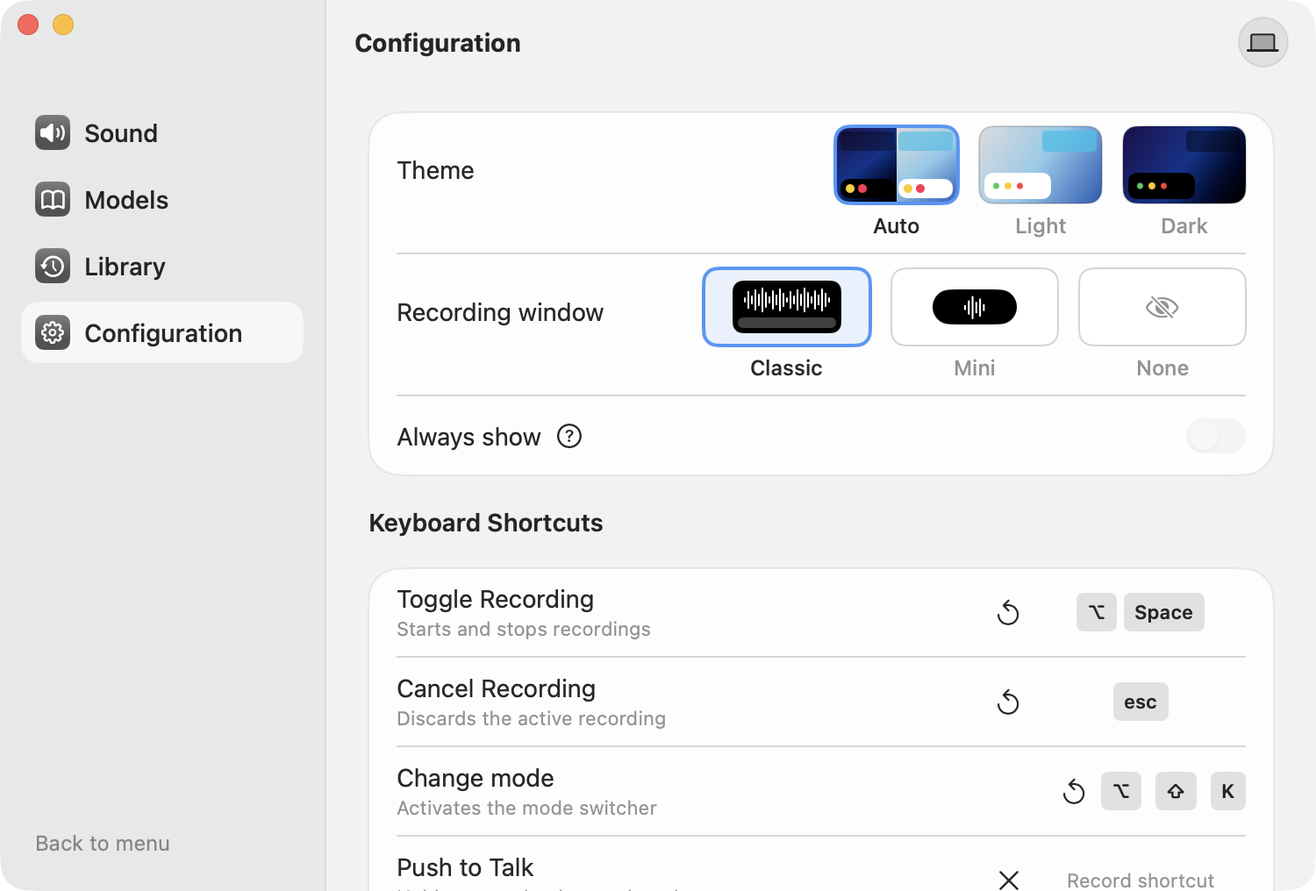
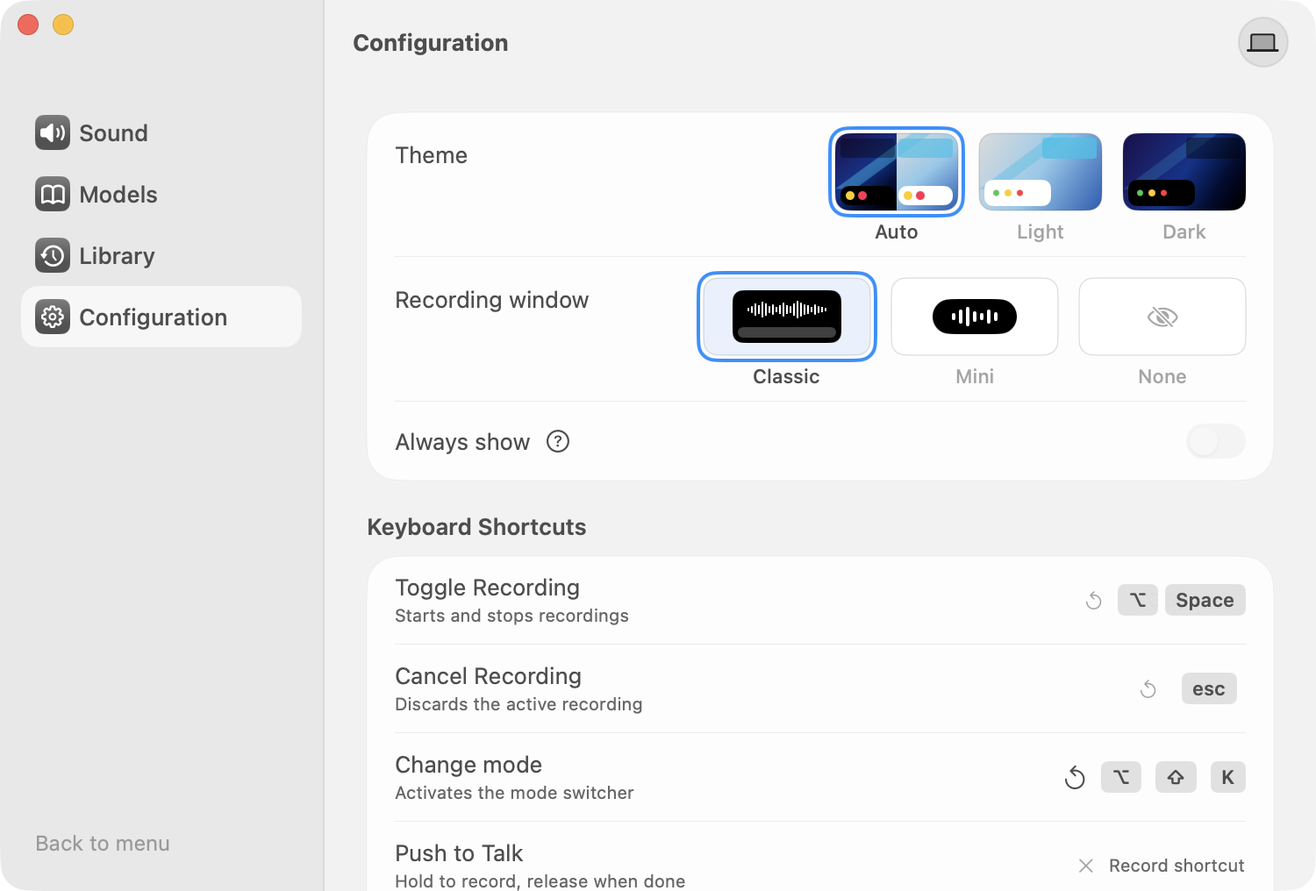
Refine Sound and Configuration settings

diff --git a/Sources/LightTTS/Views/Settings/SettingsView.swift b/Sources/LightTTS/Views/Settings/SettingsView.swift
@@ -92,22 +92,22 @@ private struct SoundPageView: View {
     @AppStorage("recordingSound") private var recordingSound = "Pause"
     @AppStorage("increaseMicVolume") private var increaseMic = false
     var body: some View {
-        ScrollView { VStack(alignment: .leading, spacing: 18) {
+        ScrollView { VStack(alignment: .leading, spacing: 0) {
             SettingsCard {
-                SettingsRow(title: "Sound effects") { HStack(spacing: 0) { ForEach(["Simple", "Classic", "Off"], id: \.self) { value in Button { sound = value } label: { Text(value).font(.system(size: 14, weight: sound == value ? .semibold : .regular)).frame(maxWidth: .infinity).frame(height: 26).foregroundStyle(sound == value ? (scheme == .dark ? Color.white : Color.black) : Color.secondary).background(sound == value ? (scheme == .dark ? Color(red: 91/255, green: 93/255, blue: 99/255) : Color.white) : Color.clear, in: RoundedRectangle(cornerRadius: 7)) }.buttonStyle(.plain) } }.padding(2).frame(width: 168).background(Color.primary.opacity(0.07), in: RoundedRectangle(cornerRadius: 9)).overlay(RoundedRectangle(cornerRadius: 9).stroke(Color.primary.opacity(0.1))) }
-                Divider()
+                SettingsRow(title: "Sound effects") { HStack(spacing: 0) { ForEach(["Simple", "Classic", "Off"], id: \.self) { value in Button { sound = value } label: { Text(value).font(.system(size: 12, weight: sound == value ? .semibold : .regular)).frame(width: value == "Classic" ? 62 : value == "Simple" ? 62 : 40, height: 24).foregroundStyle(sound == value ? (scheme == .dark ? Color.white : Color.black) : Color.secondary).background(sound == value ? (scheme == .dark ? Color(red: 91/255, green: 93/255, blue: 99/255) : Color.white) : Color.clear, in: RoundedRectangle(cornerRadius: 7)) }.buttonStyle(.plain) } }.padding(2).background(Color.primary.opacity(0.07), in: RoundedRectangle(cornerRadius: 9)).overlay(RoundedRectangle(cornerRadius: 9).stroke(Color.primary.opacity(0.1))) }
+                PageRule()
                 SettingsRow(title: "Volume") { Button { playSound(start: true) } label: { Image(systemName: "speaker.fill") }.buttonStyle(.plain); SoundVolumeSlider(value: $volume, dark: scheme == .dark); Button { playSound(start: false) } label: { Image(systemName: "speaker.wave.2.fill") }.buttonStyle(.plain) }
             }
-            Text("Recording").font(.system(size: 14, weight: .semibold))
+            Text("Recording").font(.system(size: 13, weight: .semibold)).padding(.top, 18).padding(.bottom, 9)
             SettingsCard {
                 SettingsRow(title: "Sound while recording") {
                     Menu {
                         ForEach(["Keep Playing", "Pause", "Mute", "Lower", "Muffle"], id: \.self) { value in Button(value) { recordingSound = value } }
                     } label: {
-                        HStack(spacing: 8) { Image(systemName: recordingSound == "Pause" ? "pause.circle" : recordingSound == "Mute" ? "speaker.slash" : "speaker.wave.2"); Text(recordingSound); Spacer(); Image(systemName: "chevron.up.chevron.down").font(.system(size: 10)) }.padding(.horizontal, 9)
+                        HStack(spacing: 8) { Image(systemName: recordingSound == "Pause" ? "pause.circle" : recordingSound == "Mute" ? "speaker.slash" : "speaker.wave.2"); Text(recordingSound); Spacer() }.padding(.horizontal, 9)
                     }.menuStyle(.borderlessButton).menuIndicator(.hidden).frame(width: 145, height: 30).background(Color.primary.opacity(0.08), in: RoundedRectangle(cornerRadius: 9)).overlay(RoundedRectangle(cornerRadius: 9).stroke(Color.primary.opacity(0.1))).overlay(alignment: .trailing) { Image(systemName: "chevron.up.chevron.down").font(.system(size: 10)).foregroundStyle(.secondary).padding(.trailing, 9).allowsHitTesting(false) }.help("Pause leaves playback unchanged when its state cannot be confirmed; Muffle lowers volume if system audio capture is unavailable.")
                 }
-                Divider()
+                PageRule()
                 HStack { Text("Automatically increase microphone volume"); Image(systemName: "questionmark.circle").help("Increase input volume while recording"); Spacer(); Toggle("", isOn: $increaseMic).labelsHidden().toggleStyle(ReferenceSwitchStyle(label: "Automatically increase microphone volume")) }.frame(minHeight: 48)
             }
             if !controller.message.isEmpty { Text(controller.message).font(.caption).foregroundStyle(.secondary) }
@@ -214,49 +214,77 @@ private struct ConfigurationPageView: View {
     @AppStorage("autoCheckUpdates") private var autoCheckUpdates = false
     @AppStorage("errorLogging") private var errorLogging = false
     var body: some View {
-        ScrollView { VStack(alignment: .leading, spacing: 18) {
+        Group { if controller.showAdvanced { advancedPage } else { configurationPage } }
+            .onAppear { controller.refreshLoginStatus() }
+            .onDisappear { controller.showAdvanced = false }
+    }
+    private var configurationPage: some View {
+        ScrollView { VStack(alignment: .leading, spacing: 0) {
             SettingsCard {
-                HStack(alignment: .top) { Text("Theme").padding(.top, 16); Spacer(); choices(["Auto", "Light", "Dark"], selection: $theme, icons: ["circle.lefthalf.filled", "sun.max.fill", "moon.fill"]) }.padding(.vertical, 8)
-                Divider()
-                HStack(alignment: .top) { Text("Recording window").padding(.top, 16); Spacer(); choices(["Classic", "Mini", "None"], selection: $recordingWindow, icons: ["waveform", "waveform", "eye.slash"]) }.padding(.vertical, 8)
-                Divider()
+                HStack(alignment: .top) { Text("Theme").padding(.top, 4); Spacer(); choices(["Auto", "Light", "Dark"], selection: $theme, icons: ["circle.lefthalf.filled", "sun.max.fill", "moon.fill"]) }.padding(.top, 12).padding(.bottom, 7)
+                PageRule()
+                HStack(alignment: .top) { Text("Recording window").padding(.top, 4); Spacer(); choices(["Classic", "Mini", "None"], selection: $recordingWindow, icons: ["waveform", "waveform", "eye.slash"]) }.padding(.top, 12).padding(.bottom, 7)
+                PageRule()
                 HStack(spacing: 8) { Text("Always show"); Image(systemName: "questionmark.circle").help("Keep the mini recording window visible"); Spacer(); Toggle("", isOn: $alwaysShow).labelsHidden().toggleStyle(ReferenceSwitchStyle(label: "Always show")).disabled(recordingWindow != "Mini") }.frame(height: 45)
             }.onChange(of: recordingWindow) { _ in controller.refreshRecordingWindow() }.onChange(of: alwaysShow) { _ in controller.refreshRecordingWindow() }
-            Text("Keyboard Shortcuts").font(.system(size: 14, weight: .semibold))
+            Text("Keyboard Shortcuts").font(.system(size: 13, weight: .semibold)).padding(.top, 18).padding(.bottom, 9)
             SettingsCard {
-                shortcutRow("Toggle Recording", subtitle: "Starts and stops recordings", key: "hotkeyCode", modifiers: "hotkeyModifiers", fallback: 49); Divider()
-                shortcutRow("Cancel Recording", subtitle: "Discards the active recording", key: "cancelHotkeyCode", modifiers: nil, fallback: 53); Divider()
-                HStack { VStack(alignment: .leading, spacing: 2) { Text("Change mode"); Text("Activates the mode switcher").font(.system(size: 11)).foregroundStyle(.secondary) }; Spacer(); Image(systemName: "arrow.counterclockwise"); keycap("⌥"); keycap("⇧"); keycap("K") }.frame(minHeight: 50).help("Modes are not included in LightTTS"); Divider()
-                shortcutRow("Push to Talk", subtitle: "Hold to record, release when done", key: "pushHotkeyCode", modifiers: "pushHotkeyModifiers", fallback: 49, enabled: "pushShortcutEnabled"); Divider()
-                HStack { VStack(alignment: .leading, spacing: 2) { Text("Mouse shortcut"); Text("Tap to toggle, or hold and release when done").font(.system(size: 11)).foregroundStyle(.secondary) }; Spacer(); MouseShortcutRecorder().frame(width: 120, height: 28) }.frame(minHeight: 50)
+                shortcutRow("Toggle Recording", subtitle: "Starts and stops recordings", key: "hotkeyCode", modifiers: "hotkeyModifiers", fallback: 49); PageRule()
+                shortcutRow("Cancel Recording", subtitle: "Discards the active recording", key: "cancelHotkeyCode", modifiers: nil, fallback: 53); PageRule()
+                HStack { VStack(alignment: .leading, spacing: 2) { Text("Change mode"); Text("Activates the mode switcher").font(.system(size: 10)).foregroundStyle(scheme == .dark ? Color(white: 0.78) : Color(white: 0.40)) }; Spacer(); Image(systemName: "arrow.counterclockwise"); keycap("⌥"); keycap("⇧"); keycap("K") }.frame(minHeight: 50).help("Modes are not included in LightTTS"); PageRule()
+                shortcutRow("Push to Talk", subtitle: "Hold to record, release when done", key: "pushHotkeyCode", modifiers: "pushHotkeyModifiers", fallback: 49, enabled: "pushShortcutEnabled"); PageRule()
+                HStack { VStack(alignment: .leading, spacing: 2) { Text("Mouse shortcut"); Text("Tap to toggle, or hold and release when done").font(.system(size: 10)).foregroundStyle(scheme == .dark ? Color(white: 0.78) : Color(white: 0.40)) }; Spacer(); MouseShortcutRecorder().frame(width: 120, height: 28) }.frame(minHeight: 50)
             }
-            Text("Application").font(.system(size: 14, weight: .semibold))
+            Text("Application").font(.system(size: 13, weight: .semibold)).padding(.top, 18).padding(.bottom, 9)
             SettingsCard {
-                SettingsRow(title: "Update application") { Button("Check for Updates…") { controller.checkUpdates() } }; Divider()
-                SettingsRow(title: "Automatically check for updates", help: "Check for new releases automatically") { Toggle("", isOn: $autoCheckUpdates).labelsHidden().toggleStyle(ReferenceSwitchStyle(label: "Automatically check for updates")) }; Divider()
-                SettingsRow(title: "Launch on login", help: "Open LightTTS when you log in") { Toggle("", isOn: Binding(get: { controller.loginEnabled }, set: { controller.setLoginEnabled($0) })).labelsHidden().toggleStyle(ReferenceSwitchStyle(label: "Launch on login")) }; Divider()
-                SettingsRow(title: "Error logging", help: "Write diagnostic errors to a local log") { Toggle("", isOn: $errorLogging).labelsHidden().toggleStyle(ReferenceSwitchStyle(label: "Error logging")).help("Write errors to a local log") }; Divider()
-                SettingsRow(title: "Keep recordings for", help: "Automatically remove older recordings") { Picker("Keep recordings for", selection: retentionBinding) { Text("Forever").tag(0); Text("1 day").tag(1); Text("1 week").tag(7); Text("2 weeks").tag(14); Text("1 month").tag(30); Text("6 months").tag(180); Text("1 year").tag(365) }.labelsHidden().frame(width: 140) }
+                ConfigurationApplicationRow(title: "Update application") { Button("Check for Updates…") { controller.checkUpdates() } }; PageRule()
+                ConfigurationApplicationRow(title: "Automatically check for updates", help: "Check for new releases automatically") { Toggle("", isOn: $autoCheckUpdates).labelsHidden().toggleStyle(ReferenceSwitchStyle(label: "Automatically check for updates")) }; PageRule()
+                ConfigurationApplicationRow(title: "Launch on login", help: "Open LightTTS when you log in") { Toggle("", isOn: Binding(get: { controller.loginEnabled }, set: { controller.setLoginEnabled($0) })).labelsHidden().toggleStyle(ReferenceSwitchStyle(label: "Launch on login")) }; PageRule()
+                ConfigurationApplicationRow(title: "Error logging", help: "Write diagnostic errors to a local log") { Toggle("", isOn: $errorLogging).labelsHidden().toggleStyle(ReferenceSwitchStyle(label: "Error logging")).help("Write errors to a local log") }; PageRule()
+                ConfigurationApplicationRow(title: "Keep recordings for", help: "Automatically remove older recordings") { Menu { ForEach([(0, "Forever"), (1, "1 day"), (7, "1 week"), (14, "2 weeks"), (30, "1 month"), (180, "6 months"), (365, "1 year")], id: \.0) { days, label in Button(label) { retentionBinding.wrappedValue = days } } } label: { HStack { Text(retentionLabel); Spacer(); Image(systemName: "chevron.up.chevron.down").font(.system(size: 10)) }.padding(.horizontal, 9).frame(width: 125, height: 28).background(Color.primary.opacity(0.05), in: RoundedRectangle(cornerRadius: 8)).overlay(RoundedRectangle(cornerRadius: 8).stroke(Color.primary.opacity(0.1), lineWidth: 0.5)) }.menuStyle(.borderlessButton).menuIndicator(.hidden).fixedSize() }
             }
-            SettingsCard { Button { controller.showAdvanced.toggle() } label: { HStack { Text("Advanced settings"); Spacer(); Image(systemName: controller.showAdvanced ? "chevron.down" : "chevron.right").foregroundStyle(.secondary) }.frame(height: 48).contentShape(Rectangle()) }.buttonStyle(.plain) }
-            if controller.showAdvanced {
-                Text("Text input").font(.system(size: 14, weight: .semibold))
-                SettingsCard {
-                    SettingsRow(title: "Paste result text") { Toggle("", isOn: $pasteResult).labelsHidden().toggleStyle(ReferenceSwitchStyle(label: "Paste result text")) }; Divider()
-                    SettingsRow(title: "Restore clipboard after pasting") { Toggle("", isOn: $restoreClipboard).labelsHidden().toggleStyle(ReferenceSwitchStyle(label: "Restore clipboard after pasting")).disabled(!pasteResult || simulateTyping) }; Divider()
-                    SettingsRow(title: "Hold Shift to auto-send") { Toggle("", isOn: $sendOnShift).labelsHidden().toggleStyle(ReferenceSwitchStyle(label: "Hold Shift to auto-send")).disabled(!pasteResult) }; Divider()
-                    SettingsRow(title: "Simulate keypresses") { Toggle("", isOn: $simulateTyping).labelsHidden().toggleStyle(ReferenceSwitchStyle(label: "Simulate keypresses")).disabled(!pasteResult) }
-                }
-                Text("Audio processing").font(.system(size: 14, weight: .semibold))
-                SettingsCard {
-                    SettingsRow(title: "Silence removal") { Toggle("", isOn: $removeSilence).labelsHidden().toggleStyle(ReferenceSwitchStyle(label: "Silence removal")) }; Divider()
-                    SettingsRow(title: "Dynamic normalization") { Toggle("", isOn: $normalizeAudio).labelsHidden().toggleStyle(ReferenceSwitchStyle(label: "Dynamic normalization")) }; Divider()
-                    SettingsRow(title: "Accessibility") { Button("Request Access") { _ = AXIsProcessTrustedWithOptions([kAXTrustedCheckOptionPrompt.takeUnretainedValue() as String: true] as CFDictionary) } }
-                }
-            }
+            SettingsCard { Button { controller.showAdvanced.toggle() } label: { HStack { Text("Advanced settings"); Spacer(); Image(systemName: controller.showAdvanced ? "chevron.down" : "chevron.right").foregroundStyle(.secondary) }.frame(height: 48).contentShape(Rectangle()) }.buttonStyle(.plain) }.padding(.top, 18)
             if !controller.message.isEmpty { Text(controller.message).font(.caption).foregroundStyle(.red) }
-        }.padding(.horizontal, 24).padding(.top, 16).padding(.bottom, 24) }.font(.system(size: 14)).onAppear { controller.refreshLoginStatus() }
+        }.padding(.horizontal, 24).padding(.top, 16).padding(.bottom, 24) }.font(.system(size: 13))
     }
+    private var advancedPage: some View {
+        VStack(spacing: 0) {
+            HStack(spacing: 10) {
+                Button { controller.showAdvanced = false } label: { Image(systemName: "chevron.left").frame(width: 28, height: 28).background(Color.primary.opacity(0.09), in: Circle()) }.buttonStyle(.plain).help("Back to Configuration")
+                Text("Advanced settings").font(.system(size: 13, weight: .bold)); Spacer()
+            }.padding(.horizontal, 24).padding(.bottom, 8)
+            ScrollView { VStack(alignment: .leading, spacing: 0) {
+                advancedHeading("Application")
+                SettingsCard {
+                    unavailableRow("Show in Dock"); PageRule()
+                    unavailableRow("Start Recording on Menubar Click"); PageRule()
+                    unavailableRow("Close after transcription")
+                }
+                advancedHeading("Voice model")
+                SettingsCard { ConfigurationApplicationRow(title: "Voice model active duration", help: "Voice model lifetime is managed automatically") { Text("Automatic").foregroundStyle(.secondary) } }
+                advancedHeading("Audio processing")
+                SettingsCard {
+                    ConfigurationApplicationRow(title: "Silence removal", help: "Remove silence from recordings") { Toggle("", isOn: $removeSilence).labelsHidden().toggleStyle(ReferenceSwitchStyle(label: "Silence removal")) }; PageRule()
+                    ConfigurationApplicationRow(title: "Dynamic normalization", help: "Normalize recording volume") { Toggle("", isOn: $normalizeAudio).labelsHidden().toggleStyle(ReferenceSwitchStyle(label: "Dynamic normalization")) }
+                }
+                advancedHeading("App folder location")
+                SettingsCard { ConfigurationApplicationRow(title: "App folder location") { Text("Managed by LightTTS").foregroundStyle(.secondary) } }
+                advancedHeading("Text input")
+                SettingsCard {
+                    unavailableRow("Clipboard content"); PageRule()
+                    unavailableRow("Clipboard history"); PageRule()
+                    ConfigurationApplicationRow(title: "Paste result text", help: "Paste the transcription into the focused app") { Toggle("", isOn: $pasteResult).labelsHidden().toggleStyle(ReferenceSwitchStyle(label: "Paste result text")) }; PageRule()
+                    unavailableRow("Hold shift to auto-send after paste"); PageRule()
+                    unavailableRow("Simulate keypresses")
+                }
+            }.padding(.horizontal, 24).padding(.bottom, 24) }.font(.system(size: 13))
+        }
+    }
+    private func advancedHeading(_ title: String) -> some View { Text(title).font(.system(size: 13, weight: .semibold)).padding(.top, 14).padding(.bottom, 9) }
+    private func unavailableRow(_ title: String) -> some View {
+        ConfigurationApplicationRow(title: title, help: "Not available in LightTTS") { Toggle("", isOn: .constant(false)).labelsHidden().toggleStyle(ReferenceSwitchStyle(label: title)).disabled(true) }
+    }
+    private var retentionLabel: String { [0: "Forever", 1: "1 day", 7: "1 week", 14: "2 weeks", 30: "1 month", 180: "6 months", 365: "1 year"][retention] ?? "Forever" }
     private var retentionBinding: Binding<Int> {
         Binding(get: { retention }, set: { value in
             if value > 0 && (retention == 0 || value < retention) {
@@ -279,6 +307,15 @@ private struct ConfigurationPageView: View {
                         } else {
                             LinearGradient(colors: index == 1 ? [Color(white: 0.86), Color(red: 0.55, green: 0.79, blue: 0.92), Color(red: 0.12, green: 0.35, blue: 0.70)] : [Color(red: 0.10, green: 0.06, blue: 0.30), Color(red: 0.03, green: 0.20, blue: 0.55), .black], startPoint: .topLeading, endPoint: .bottomTrailing)
                         }
+                        GeometryReader { proxy in
+                            Path { path in
+                                path.move(to: CGPoint(x: 0, y: proxy.size.height * 0.72))
+                                path.addLine(to: CGPoint(x: proxy.size.width * 0.62, y: 0))
+                                path.addLine(to: CGPoint(x: proxy.size.width * 0.78, y: 0))
+                                path.addLine(to: CGPoint(x: proxy.size.width * 0.16, y: proxy.size.height * 0.72))
+                                path.closeSubpath()
+                            }.fill(Color.cyan.opacity(index == 2 ? 0.18 : 0.42))
+                        }
                         if index == 0 {
                             HStack(spacing: 2) { ForEach(0..<2) { side in VStack(spacing: 1) { RoundedRectangle(cornerRadius: 2).fill(side == 0 ? Color.black.opacity(0.35) : Color.cyan.opacity(0.65)).frame(height: 11); Spacer(); HStack(spacing: 2) { Circle().fill(.yellow); Circle().fill(.pink); Spacer(minLength: 0) }.frame(height: 5).padding(3).background(side == 0 ? Color.black : Color.white, in: RoundedRectangle(cornerRadius: 5)) } } }.padding(3)
                         } else {
@@ -293,19 +330,30 @@ private struct ConfigurationPageView: View {
                         if value == "None" { Image(systemName: "eye.slash").foregroundStyle(.secondary) }
                         else if value == "Classic" {
                             VStack(spacing: 2) {
-                                HStack(spacing: 1) { ForEach(0..<25) { index in Capsule().fill(.white).frame(width: 1, height: CGFloat(3 + ((index * 7) % 12))) } }.frame(height: 16)
+                                HStack(spacing: 1) { ForEach(Array([2, 4, 7, 5, 9, 7, 4, 6, 3, 5, 8, 5, 4, 7, 10, 8, 6, 5, 3, 6, 4, 3, 2].enumerated()), id: \.offset) { _, height in Capsule().fill(.white).frame(width: 1, height: CGFloat(height)) } }.frame(height: 16)
                                 RoundedRectangle(cornerRadius: 3).fill(Color(white: 0.25)).frame(width: 56, height: 6)
                             }.frame(width: 62, height: 30).background(.black, in: RoundedRectangle(cornerRadius: 6))
-                        } else { Image(systemName: "waveform").font(.system(size: 13)).foregroundStyle(.white).frame(width: 48, height: 20).background(.black, in: Capsule()) }
+                        } else { HStack(spacing: 2) { ForEach(Array([4, 8, 11, 6, 4, 8, 5].enumerated()), id: \.offset) { _, height in Capsule().fill(.white).frame(width: 2, height: CGFloat(height)) } }.frame(width: 48, height: 20).background(.black, in: Capsule()) }
                     }
-                }.frame(width: values.first == "Auto" ? 70 : 95, height: 44).clipShape(RoundedRectangle(cornerRadius: 8)).overlay(RoundedRectangle(cornerRadius: 8).stroke(selection.wrappedValue == value ? Color(red: 69/255, green: 151/255, blue: 247/255) : Color.primary.opacity(0.2), lineWidth: selection.wrappedValue == value ? 2 : 1))
-                Text(value).font(.system(size: 12, weight: .medium)).lineLimit(1).fixedSize(horizontal: true, vertical: false).foregroundStyle(selection.wrappedValue == value ? .primary : .secondary)
+                }.frame(width: values.first == "Auto" ? 70 : 95, height: 44).clipShape(RoundedRectangle(cornerRadius: 8)).overlay(RoundedRectangle(cornerRadius: 8).stroke(Color.primary.opacity(0.2), lineWidth: 0.5)).overlay(RoundedRectangle(cornerRadius: 10).stroke(selection.wrappedValue == value ? Color(red: 0/255, green: 145/255, blue: 255/255) : .clear, lineWidth: 2).padding(-3))
+                Text(value).font(.system(size: 11, weight: .medium)).lineLimit(1).fixedSize(horizontal: true, vertical: false).foregroundStyle(selection.wrappedValue == value ? .primary : .secondary)
             } }.buttonStyle(.plain)
         } }
     }
     private func keyLabel(_ code: Int) -> String { let letters = [0:"A",1:"S",2:"D",3:"F",4:"H",5:"G",6:"Z",7:"X",8:"C",9:"V",11:"B",12:"Q",13:"W",14:"E",15:"R",16:"Y",17:"T",31:"O",32:"U",34:"I",35:"P",37:"L",38:"J",40:"K",45:"N",46:"M"]; return code == 49 ? "Space" : code == 53 ? "esc" : (letters[code] ?? "Key \(code)") }
-    private func keycap(_ text: String) -> some View { Text(text).font(.system(size: 11, weight: .semibold)).padding(.horizontal, 6).padding(.vertical, 4).background(Color.primary.opacity(0.13), in: RoundedRectangle(cornerRadius: 4)) }
+    private func keycap(_ text: String) -> some View { Text(text).font(.system(size: 11, weight: .semibold)).padding(.horizontal, 6).padding(.vertical, 2).background(Color.primary.opacity(0.13), in: RoundedRectangle(cornerRadius: 4)) }
     private func shortcutRow(_ title: String, subtitle: String, key: String, modifiers: String?, fallback: Int, enabled: String? = nil) -> some View {
-        HStack { VStack(alignment: .leading, spacing: 2) { Text(title); Text(subtitle).font(.system(size: 11)).foregroundStyle(.secondary) }; Spacer(); Button { if let enabled { SettingsDefaults.store.set(false, forKey: enabled) } else { SettingsDefaults.store.removeObject(forKey: key); if let modifiers { SettingsDefaults.store.removeObject(forKey: modifiers) } }; controller.objectWillChange.send() } label: { Image(systemName: enabled == nil ? "arrow.counterclockwise" : "xmark") }.buttonStyle(.plain); ZStack { HStack(spacing: 4) { if let enabled, !SettingsDefaults.store.bool(forKey: enabled) { Text("Record shortcut").font(.system(size: 11)).foregroundStyle(.secondary) } else { let raw = modifiers == "pushHotkeyModifiers" ? pushHotkeyModifiers : (modifiers == nil ? 0 : hotkeyModifiers); let flags = NSEvent.ModifierFlags(rawValue: UInt(raw)); if flags.contains(.control) { keycap("⌃") }; if flags.contains(.option) { keycap("⌥") }; if flags.contains(.shift) { keycap("⇧") }; if flags.contains(.command) { keycap("⌘") }; let code = key == "cancelHotkeyCode" ? cancelHotkeyCode : (key == "pushHotkeyCode" ? pushHotkeyCode : hotkeyCode); keycap(keyLabel(code)) } }; ShortcutRecorder(codeKey: key, modifiersKey: modifiers, fallbackCode: fallback, enabledKey: enabled).opacity(0.015) }.id("\(key)-\(hotkeyCode)-\(hotkeyModifiers)-\(cancelHotkeyCode)-\(pushShortcutEnabled)-\(pushHotkeyCode)-\(pushHotkeyModifiers)").frame(minWidth: 60, maxWidth: 120, minHeight: 28) }.frame(minHeight: 50)
+        HStack { VStack(alignment: .leading, spacing: 2) { Text(title); Text(subtitle).font(.system(size: 10)).foregroundStyle(scheme == .dark ? Color(white: 0.78) : Color(white: 0.40)) }; Spacer(); Button { if let enabled { SettingsDefaults.store.set(false, forKey: enabled) } else { SettingsDefaults.store.removeObject(forKey: key); if let modifiers { SettingsDefaults.store.removeObject(forKey: modifiers) } }; controller.objectWillChange.send() } label: { Image(systemName: enabled == nil ? "arrow.counterclockwise" : "xmark").font(.system(size: 10)).foregroundStyle(.secondary) }.buttonStyle(.plain); ZStack { HStack(spacing: 4) { if let enabled, !SettingsDefaults.store.bool(forKey: enabled) { Text("Record shortcut").font(.system(size: 10)).foregroundStyle(scheme == .dark ? Color(white: 0.78) : Color(white: 0.40)) } else { let raw = modifiers == "pushHotkeyModifiers" ? pushHotkeyModifiers : (modifiers == nil ? 0 : hotkeyModifiers); let flags = NSEvent.ModifierFlags(rawValue: UInt(raw)); if flags.contains(.control) { keycap("⌃") }; if flags.contains(.option) { keycap("⌥") }; if flags.contains(.shift) { keycap("⇧") }; if flags.contains(.command) { keycap("⌘") }; let code = key == "cancelHotkeyCode" ? cancelHotkeyCode : (key == "pushHotkeyCode" ? pushHotkeyCode : hotkeyCode); keycap(keyLabel(code)) } }; ShortcutRecorder(codeKey: key, modifiersKey: modifiers, fallbackCode: fallback, enabledKey: enabled).opacity(0.015) }.id("\(key)-\(hotkeyCode)-\(hotkeyModifiers)-\(cancelHotkeyCode)-\(pushShortcutEnabled)-\(pushHotkeyCode)-\(pushHotkeyModifiers)").fixedSize(horizontal: true, vertical: false).frame(minHeight: 28) }.frame(minHeight: 50)
     }
+}
+
+private struct ConfigurationApplicationRow<Content: View>: View {
+    let title: String
+    var help: String? = nil
+    @ViewBuilder var content: Content
+    var body: some View { HStack(spacing: 8) { Text(title); if let help { Image(systemName: "info.circle").foregroundStyle(.secondary).help(help) }; Spacer(); content }.frame(minHeight: title == "Keep recordings for" ? 58 : 43) }
+}
+
+private struct PageRule: View {
+    var body: some View { Rectangle().fill(Color.primary.opacity(0.08)).frame(height: 0.5) }
 }
